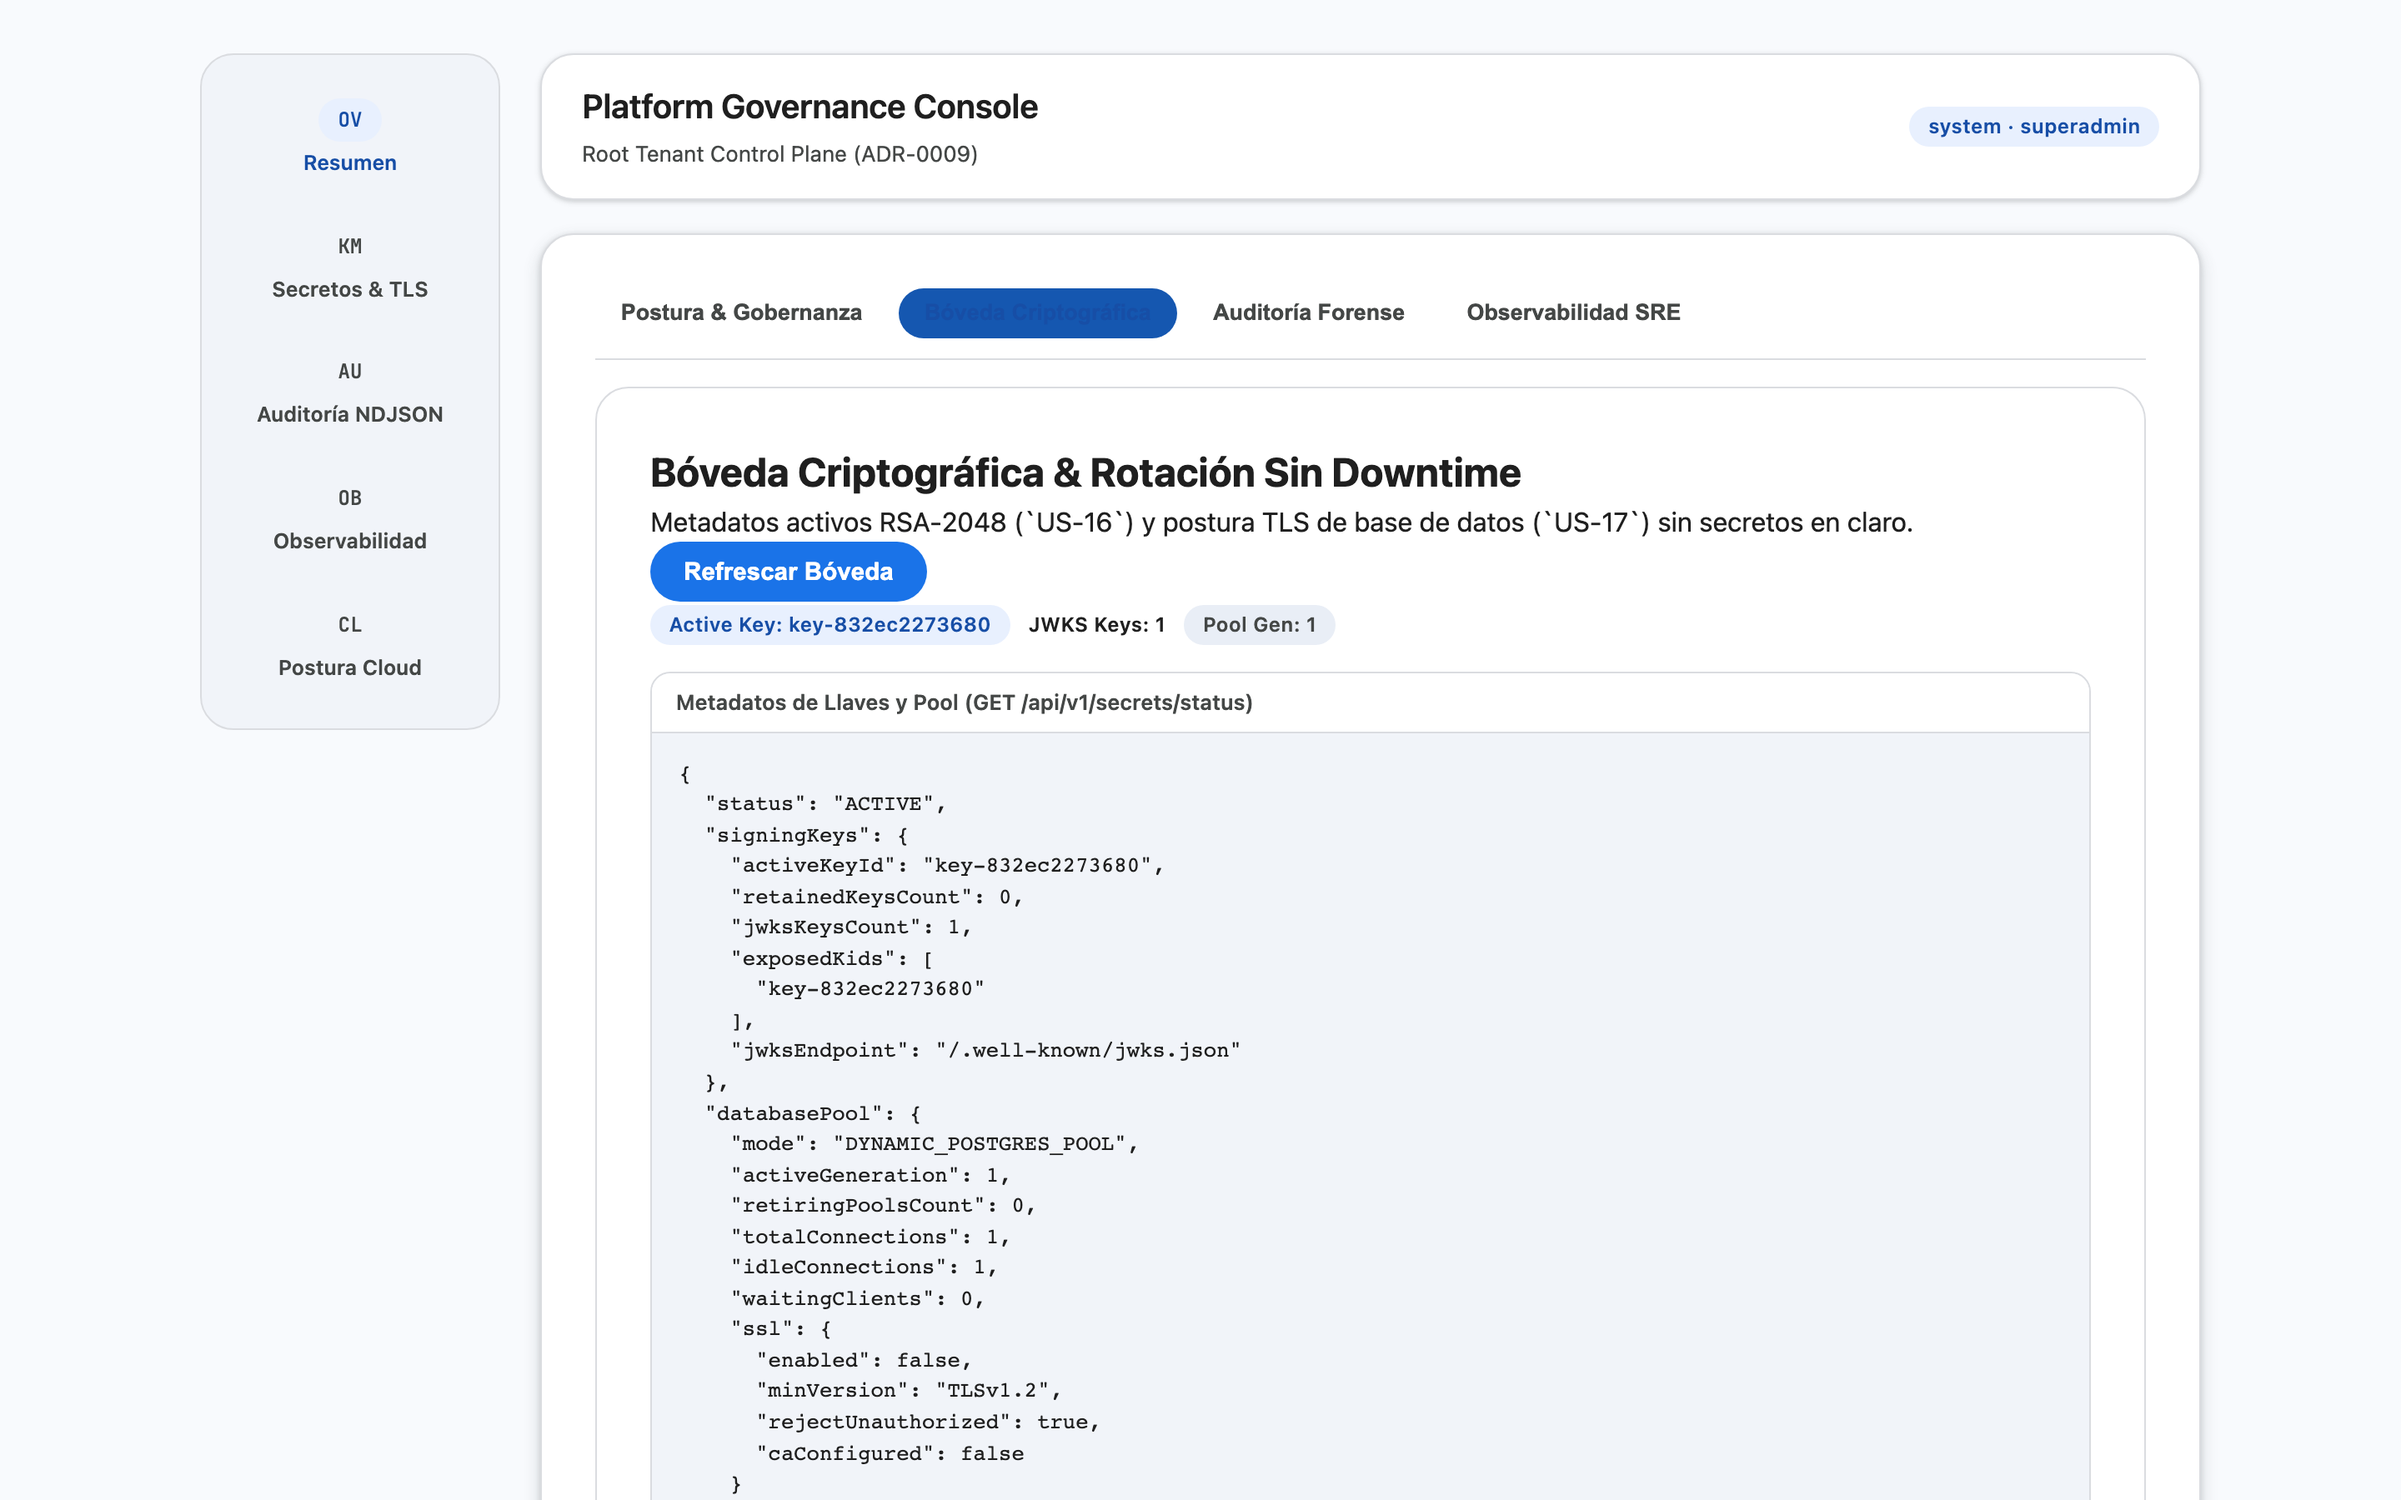
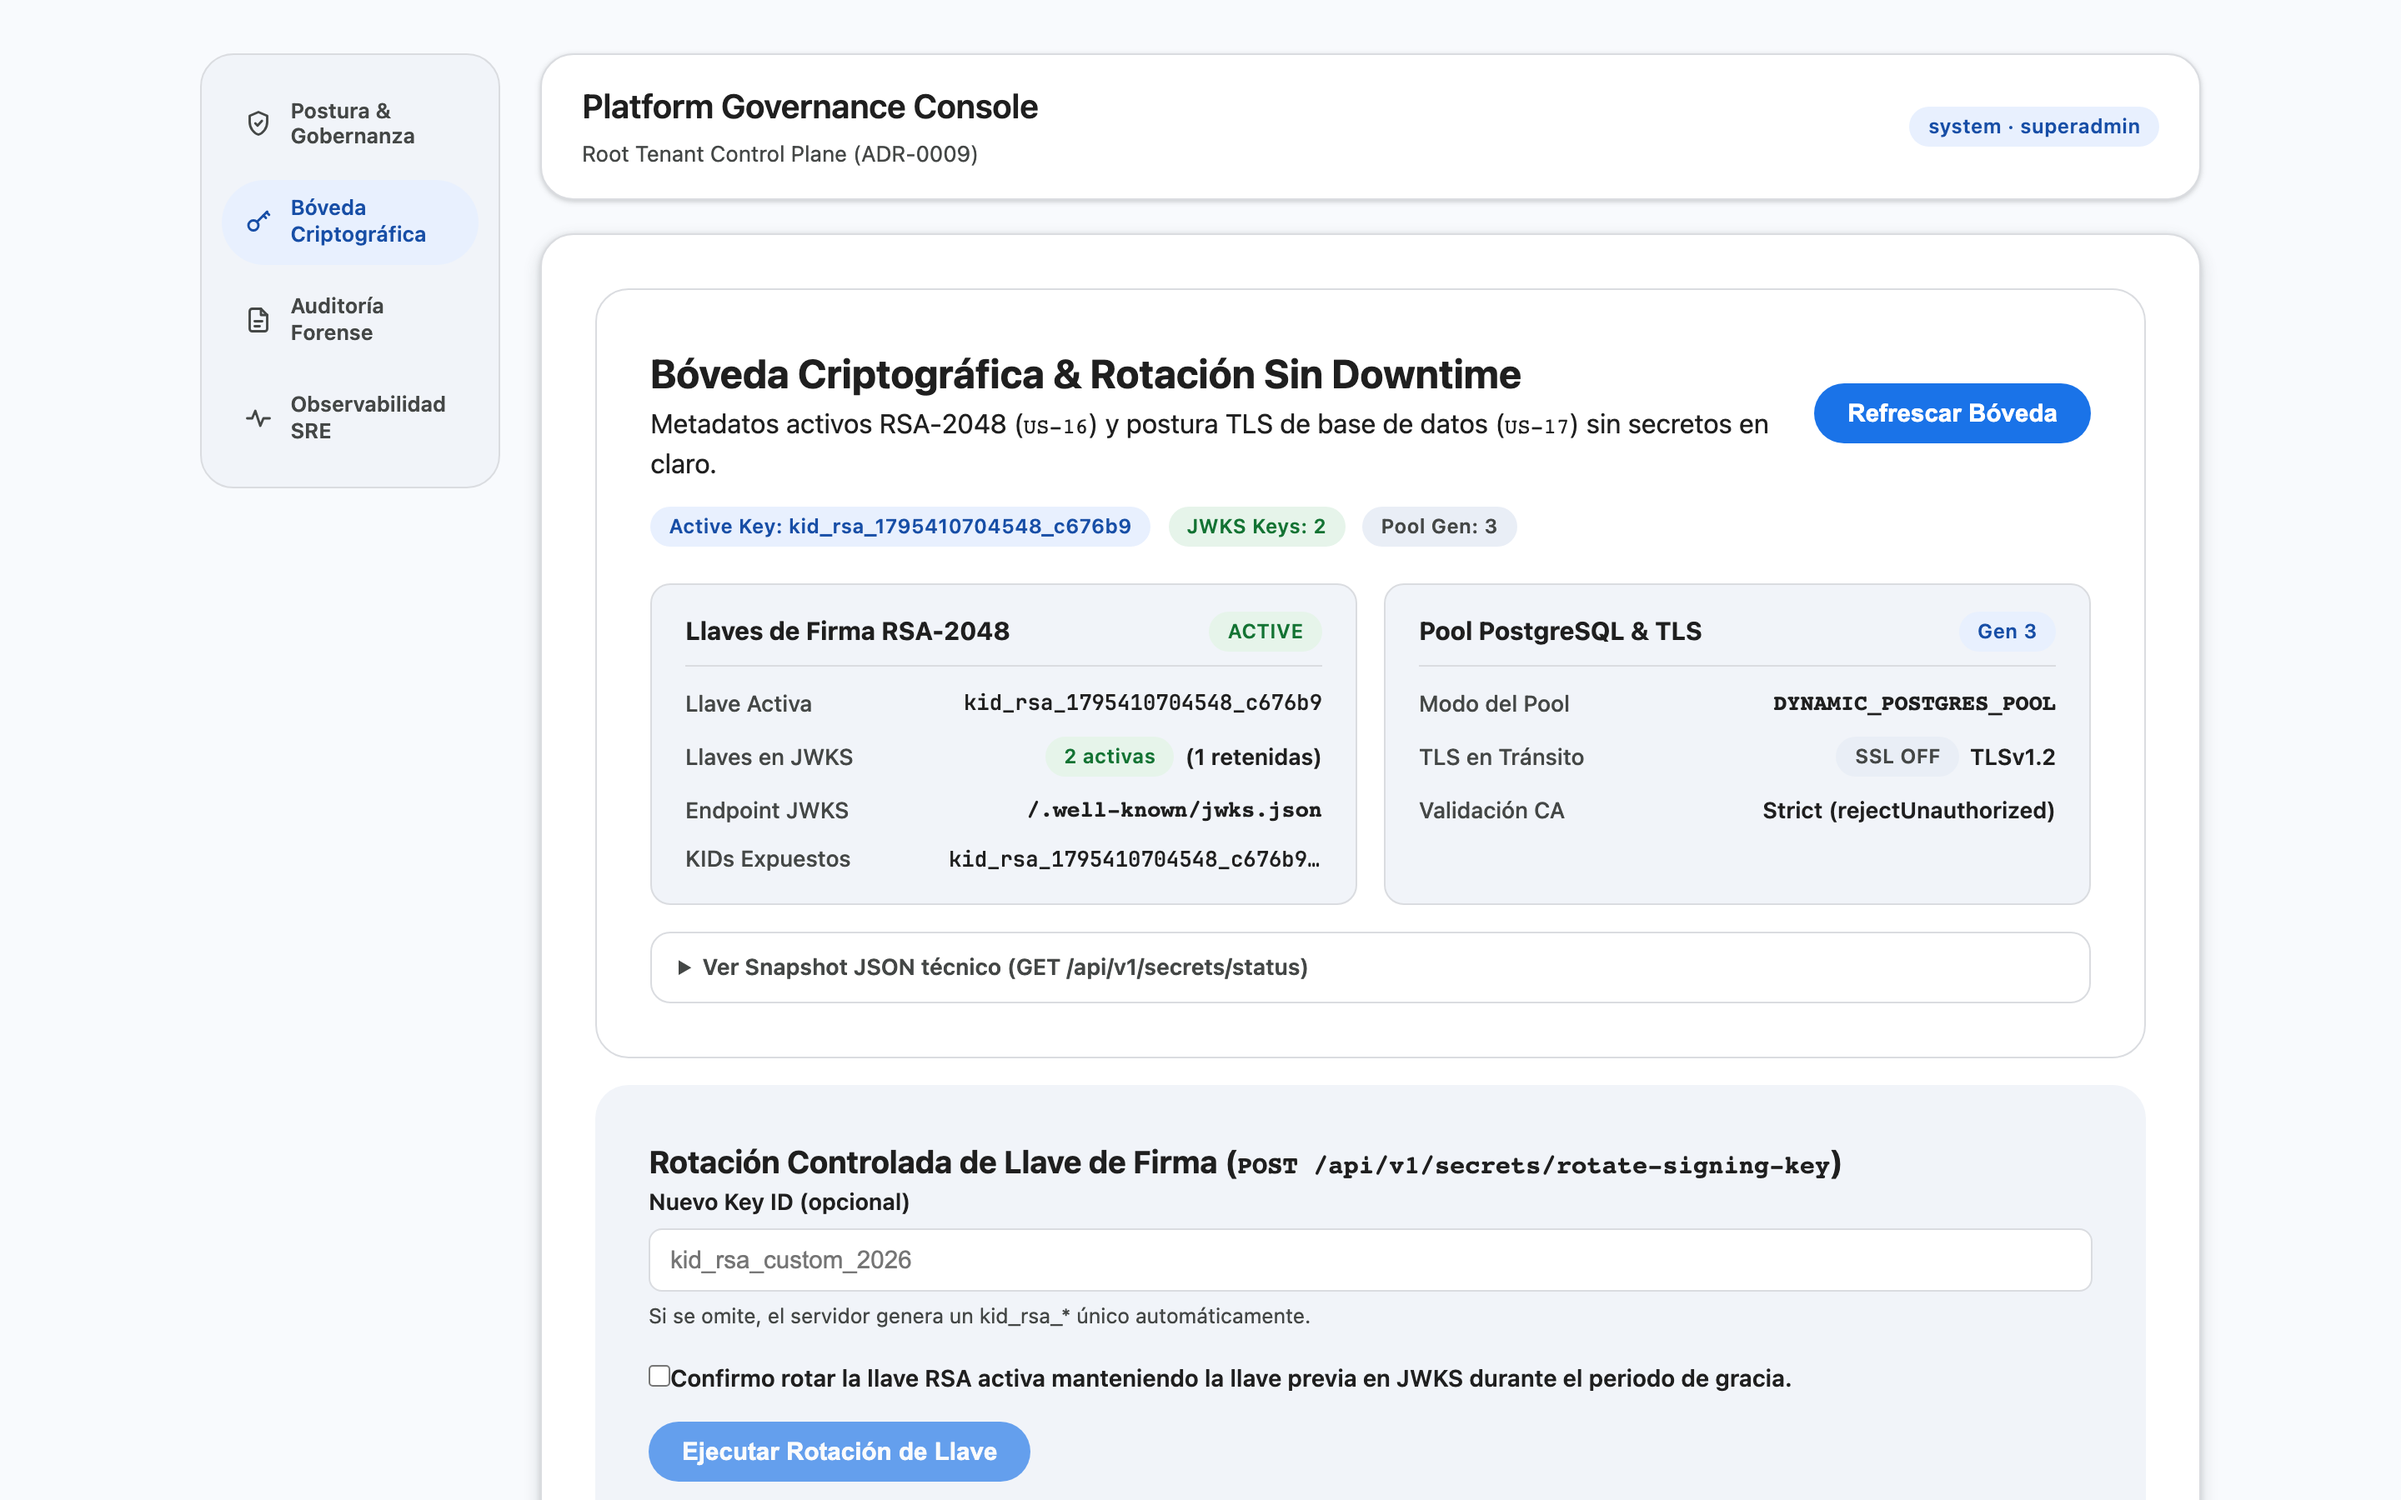
feat(ui,docs): refactor VaultAndRotationPanel cards and update US-16 screenshots

diff --git a/interfaces/web/client/contexts/platform/ui/VaultAndRotationPanel.tsx b/interfaces/web/client/contexts/platform/ui/VaultAndRotationPanel.tsx
@@ -108,7 +108,7 @@ export function VaultAndRotationPanel({ session }: VaultAndRotationPanelProps) {
           <div>
             <h2>Bóveda Criptográfica &amp; Rotación Sin Downtime</h2>
             <p className="m3-muted">
-              Metadatos activos RSA-2048 (`US-16`) y postura TLS de base de datos (`US-17`) sin secretos en claro.
+              Metadatos activos RSA-2048 (<code>US-16</code>) y postura TLS de base de datos (<code>US-17</code>) sin secretos en claro.
             </p>
           </div>
           <M3Button variant="tonal" onClick={loadStatus} disabled={loading}>
@@ -126,17 +126,95 @@ export function VaultAndRotationPanel({ session }: VaultAndRotationPanelProps) {
               <M3Chip label={`Pool Gen: ${vaultStatus.databasePool.activeGeneration}`} tone="neutral" />
             </div>
 
-            <M3JsonViewer
-              title="Metadatos de Llaves y Pool (GET /api/v1/secrets/status)"
-              data={vaultStatus}
-              testId="vault-status-json"
-            />
+            <div className="m3-posture-grid">
+              <section className="m3-posture-card" aria-label="Llaves de Firma RSA-2048">
+                <div className="m3-posture-card__header">
+                  <h3 className="m3-posture-card__title">Llaves de Firma RSA-2048</h3>
+                  <M3Chip label={vaultStatus.status} tone="success" />
+                </div>
+                <dl className="m3-posture-list">
+                  <div className="m3-posture-row">
+                    <dt>Llave Activa</dt>
+                    <dd>
+                      <code className="m3-mono-truncate" title={vaultStatus.signingKeys.activeKeyId}>
+                        {vaultStatus.signingKeys.activeKeyId}
+                      </code>
+                    </dd>
+                  </div>
+                  <div className="m3-posture-row">
+                    <dt>Llaves en JWKS</dt>
+                    <dd>
+                      <M3Chip label={`${vaultStatus.signingKeys.jwksKeysCount} activas`} tone="success" />
+                      <span>({vaultStatus.signingKeys.retainedKeysCount} retenidas)</span>
+                    </dd>
+                  </div>
+                  <div className="m3-posture-row">
+                    <dt>Endpoint JWKS</dt>
+                    <dd>
+                      <code>{vaultStatus.signingKeys.jwksEndpoint}</code>
+                    </dd>
+                  </div>
+                  <div className="m3-posture-row">
+                    <dt>KIDs Expuestos</dt>
+                    <dd>
+                      <code className="m3-mono-truncate" title={vaultStatus.signingKeys.exposedKids.join(', ')}>
+                        {vaultStatus.signingKeys.exposedKids.join(', ')}
+                      </code>
+                    </dd>
+                  </div>
+                </dl>
+              </section>
+
+              <section className="m3-posture-card" aria-label="Pool PostgreSQL y TLS">
+                <div className="m3-posture-card__header">
+                  <h3 className="m3-posture-card__title">Pool PostgreSQL &amp; TLS</h3>
+                  <M3Chip label={`Gen ${vaultStatus.databasePool.activeGeneration}`} tone="primary" />
+                </div>
+                <dl className="m3-posture-list">
+                  <div className="m3-posture-row">
+                    <dt>Modo del Pool</dt>
+                    <dd>
+                      <code>{vaultStatus.databasePool.mode}</code>
+                    </dd>
+                  </div>
+                  <div className="m3-posture-row">
+                    <dt>TLS en Tránsito</dt>
+                    <dd>
+                      <M3Chip
+                        label={vaultStatus.databasePool.ssl?.enabled ? 'SSL ON' : 'SSL OFF'}
+                        tone={vaultStatus.databasePool.ssl?.enabled ? 'success' : 'neutral'}
+                      />
+                      <span>{vaultStatus.databasePool.ssl?.minVersion ?? 'TLSv1.2'}</span>
+                    </dd>
+                  </div>
+                  <div className="m3-posture-row">
+                    <dt>Validación CA</dt>
+                    <dd>
+                      {vaultStatus.databasePool.ssl?.rejectUnauthorized
+                        ? 'Strict (rejectUnauthorized)'
+                        : 'Permissive'}
+                    </dd>
+                  </div>
+                </dl>
+              </section>
+            </div>
+
+            <details className="m3-collapsible-json">
+              <summary>Ver Snapshot JSON técnico (GET /api/v1/secrets/status)</summary>
+              <M3JsonViewer
+                title="Metadatos de Llaves y Pool (GET /api/v1/secrets/status)"
+                data={vaultStatus}
+                testId="vault-status-json"
+              />
+            </details>
           </div>
         )}
       </M3Card>
 
       <M3Card variant="tonal">
-        <h3>Rotación Controlada de Llave de Firma (`POST /api/v1/secrets/rotate-signing-key`)</h3>
+        <h3>
+          Rotación Controlada de Llave de Firma (<code>POST /api/v1/secrets/rotate-signing-key</code>)
+        </h3>
         <div className="m3-stack">
           <M3TextField
             id="rotate-key-id"

diff --git a/docs/showcase/07-fintech-compliance.md b/docs/showcase/07-fintech-compliance.md
@@ -391,16 +391,20 @@ curl -s "${BASE_URL}/health/ready" | jq .
    > - El JWT emitido por `create-root-admin` expira a la **1 hora** (`TTL 1h`) o bien el operador temporal fue eliminado en el **Paso 5 (`users delete`)** si reutilizaste el mismo token.
    > - Regenerá el token con el comando `1)` y actualizá `identity_session` en DevTools. Para evitar que otras pruebas comerciales (`acme-corp`) sobrescriban tu sesión Root, revisá la guía de aislamiento en [`06-cloud-infrastructure.md`](./06-cloud-infrastructure.md).
 2. **Inspección de Metadatos (`GET /api/v1/secrets/status`):**
-   - Abre [`http://localhost:3000/platform`](http://localhost:3000/platform) y selecciona la pestaña **`Bóveda Criptográfica`**.
-   - Pulsa **`Refrescar Bóveda`** y verifica los chips `Active Key`, `JWKS Keys` y `Pool Gen`, junto con **Metadatos de Llaves y Pool** (`M3JsonViewer`), confirmando que no se expone ninguna clave privada PEM en claro.
-3. **Caso Negativo (Confirmación Explícita Obligatoria):** Comprueba que el botón **`Ejecutar Rotación de Llave`** permanece deshabilitado hasta marcar el checkbox de confirmación explícita.
+   - Abre [`http://localhost:3000/platform`](http://localhost:3000/platform) y selecciona **`Bóveda Criptográfica`** en la barra lateral izquierda.
+   - Pulsa **`Refrescar Bóveda`** y verifica los chips `Active Key`, `JWKS Keys` y `Pool Gen`, junto con las tarjetas **Llaves de Firma RSA-2048** y **Pool PostgreSQL & TLS** (y opcionalmente el acordeón **Ver Snapshot JSON técnico**), confirmando que no se expone ninguna clave privada PEM en claro.
+3. **Caso Negativo (Confirmación Explícita Obligatoria):** Comprueba en la tarjeta inferior que el botón **`Ejecutar Rotación de Llave`** permanece deshabilitado hasta marcar el checkbox de confirmación explícita.
+
+   ![Consola /platform Bóveda Criptográfica — Inspección y Guardia de Confirmación (Pasos 2 y 3)](./assets/screenshots/ui_platform_vault_audit.png)
+
 4. **Caso Positivo (Rotación en Caliente `POST /api/v1/secrets/rotate-signing-key`):**
    - Ingresa opcionalmente en **Nuevo Key ID (opcional)** `kid_rsa_showcase_2026`.
    - Marca el checkbox de confirmación y pulsa **`Ejecutar Rotación de Llave`**.
-   - Verifica en **Resultado de Rotación** el nuevo `activeKeyId` y en **Metadatos de Llaves y Pool** que `jwksKeysCount` incrementó reteniendo la llave previa durante el periodo de gracia.
-5. **Verificación Técnica & Trazabilidad E2E:** Comprueba `X-Request-ID` / `traceparent` W3C en DevTools; `tests/e2e/web/platform_console.spec.tsx` (Scenario 3).
+   - Verifica en **Resultado de Rotación** el nuevo `activeKeyId` y en **Llaves de Firma RSA-2048** que `JWKS Keys` incrementó reteniendo la llave previa durante el periodo de gracia.
 
-![Consola /platform Bóveda Criptográfica en Material Design 3](./assets/screenshots/ui_platform_vault_audit.png)
+   ![Consola /platform Bóveda Criptográfica — Rotación Exitosa en Caliente (Paso 4)](./assets/screenshots/us16_vault_rotation_success.png)
+
+5. **Verificación Técnica & Trazabilidad E2E:** Comprueba `X-Request-ID` / `traceparent` W3C en DevTools; `tests/e2e/web/platform_console.spec.tsx` (Scenario 3).
 
 ---
 
